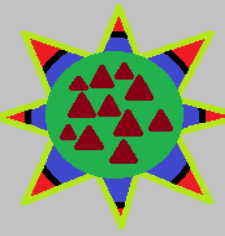
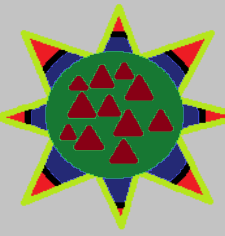
changed large porcuslime image and difficulty

Changed region(s): [[0.1244, 0.1483, 0.9022, 0.8602]]

diff --git a/Tile.js b/Tile.js
@@ -121,7 +121,7 @@ function large_porcuslime_tile(){
         pic: "large_porcuslime.png",
         id: "",
         health: 3,
-        difficulty: 7,
+        difficulty: 8,
         behavior: large_porcuslime_ai,
         description: large_porcuslime_description
     }
